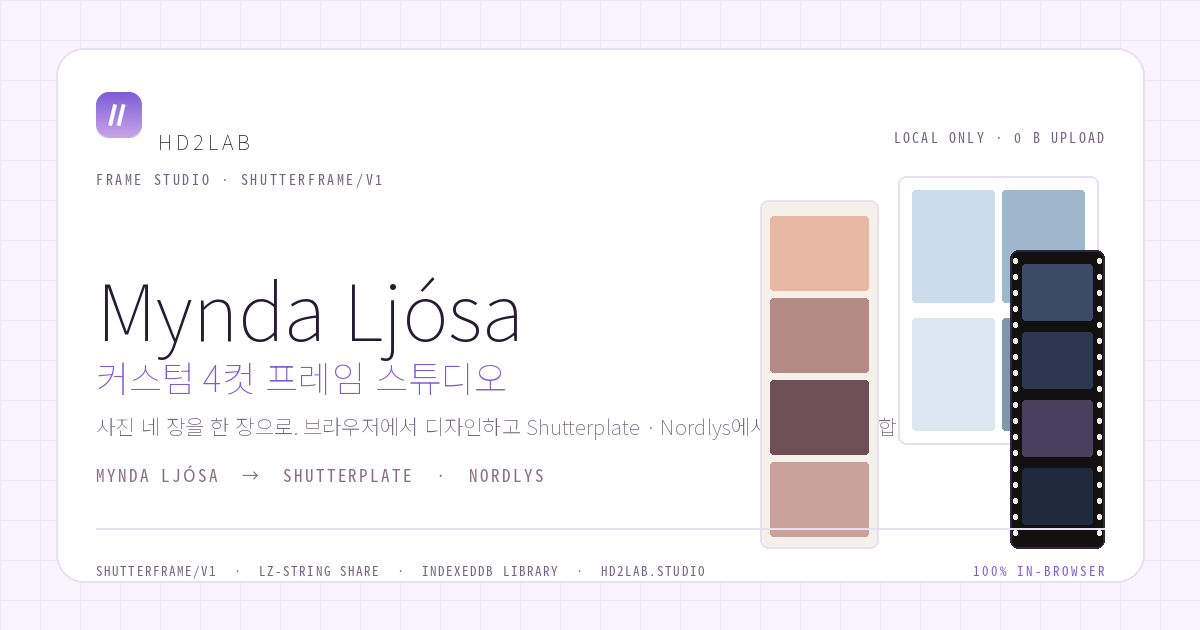
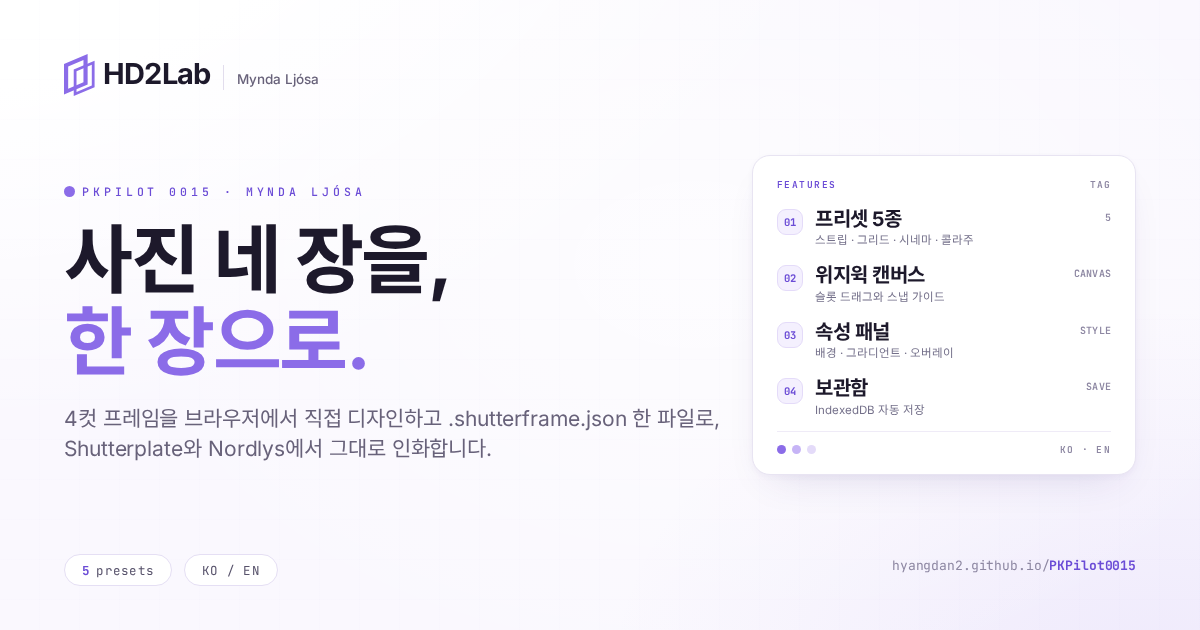
chore(og): share card in the HD2's Diary OG style (#4)
Rebuild og:image / twitter:image as the 1200x630 Diary-style card (Soft Iris wash, dual-skew mark, left title, right feature card) and bump the cache-busting query to ?v=20261121-og.

diff --git a/index.html b/index.html
@@ -17,14 +17,14 @@
     <meta property="og:title" content="Mynda Ljósa — 커스텀 4컷 프레임 스튜디오" />
     <meta property="og:description" content="사진 네 장을 한 장으로. Shutterplate & Nordlys가 그대로 읽는 .shutterframe.json을 브라우저에서 디자인하세요." />
     <meta property="og:url" content="https://hyangdan2.github.io/PKPilot0015/" />
-    <meta property="og:image" content="https://hyangdan2.github.io/PKPilot0015/og-image.png" />
+    <meta property="og:image" content="https://hyangdan2.github.io/PKPilot0015/og-image.png?v=20261121-og" />
     <meta property="og:image:width" content="1200" />
     <meta property="og:image:height" content="630" />
     <meta property="og:locale" content="ko_KR" />
     <meta name="twitter:card" content="summary_large_image" />
     <meta name="twitter:title" content="Mynda Ljósa — 커스텀 4컷 프레임 스튜디오" />
     <meta name="twitter:description" content="HD2Lab의 100% 브라우저 커스텀 4컷 프레임 에디터. Shutterplate와 Nordlys에서 바로 인화." />
-    <meta name="twitter:image" content="https://hyangdan2.github.io/PKPilot0015/social-preview.png" />
+    <meta name="twitter:image" content="https://hyangdan2.github.io/PKPilot0015/social-preview.png?v=20261121-og" />
 
     <script>
       /* Apply the saved theme and language before the first paint. */
